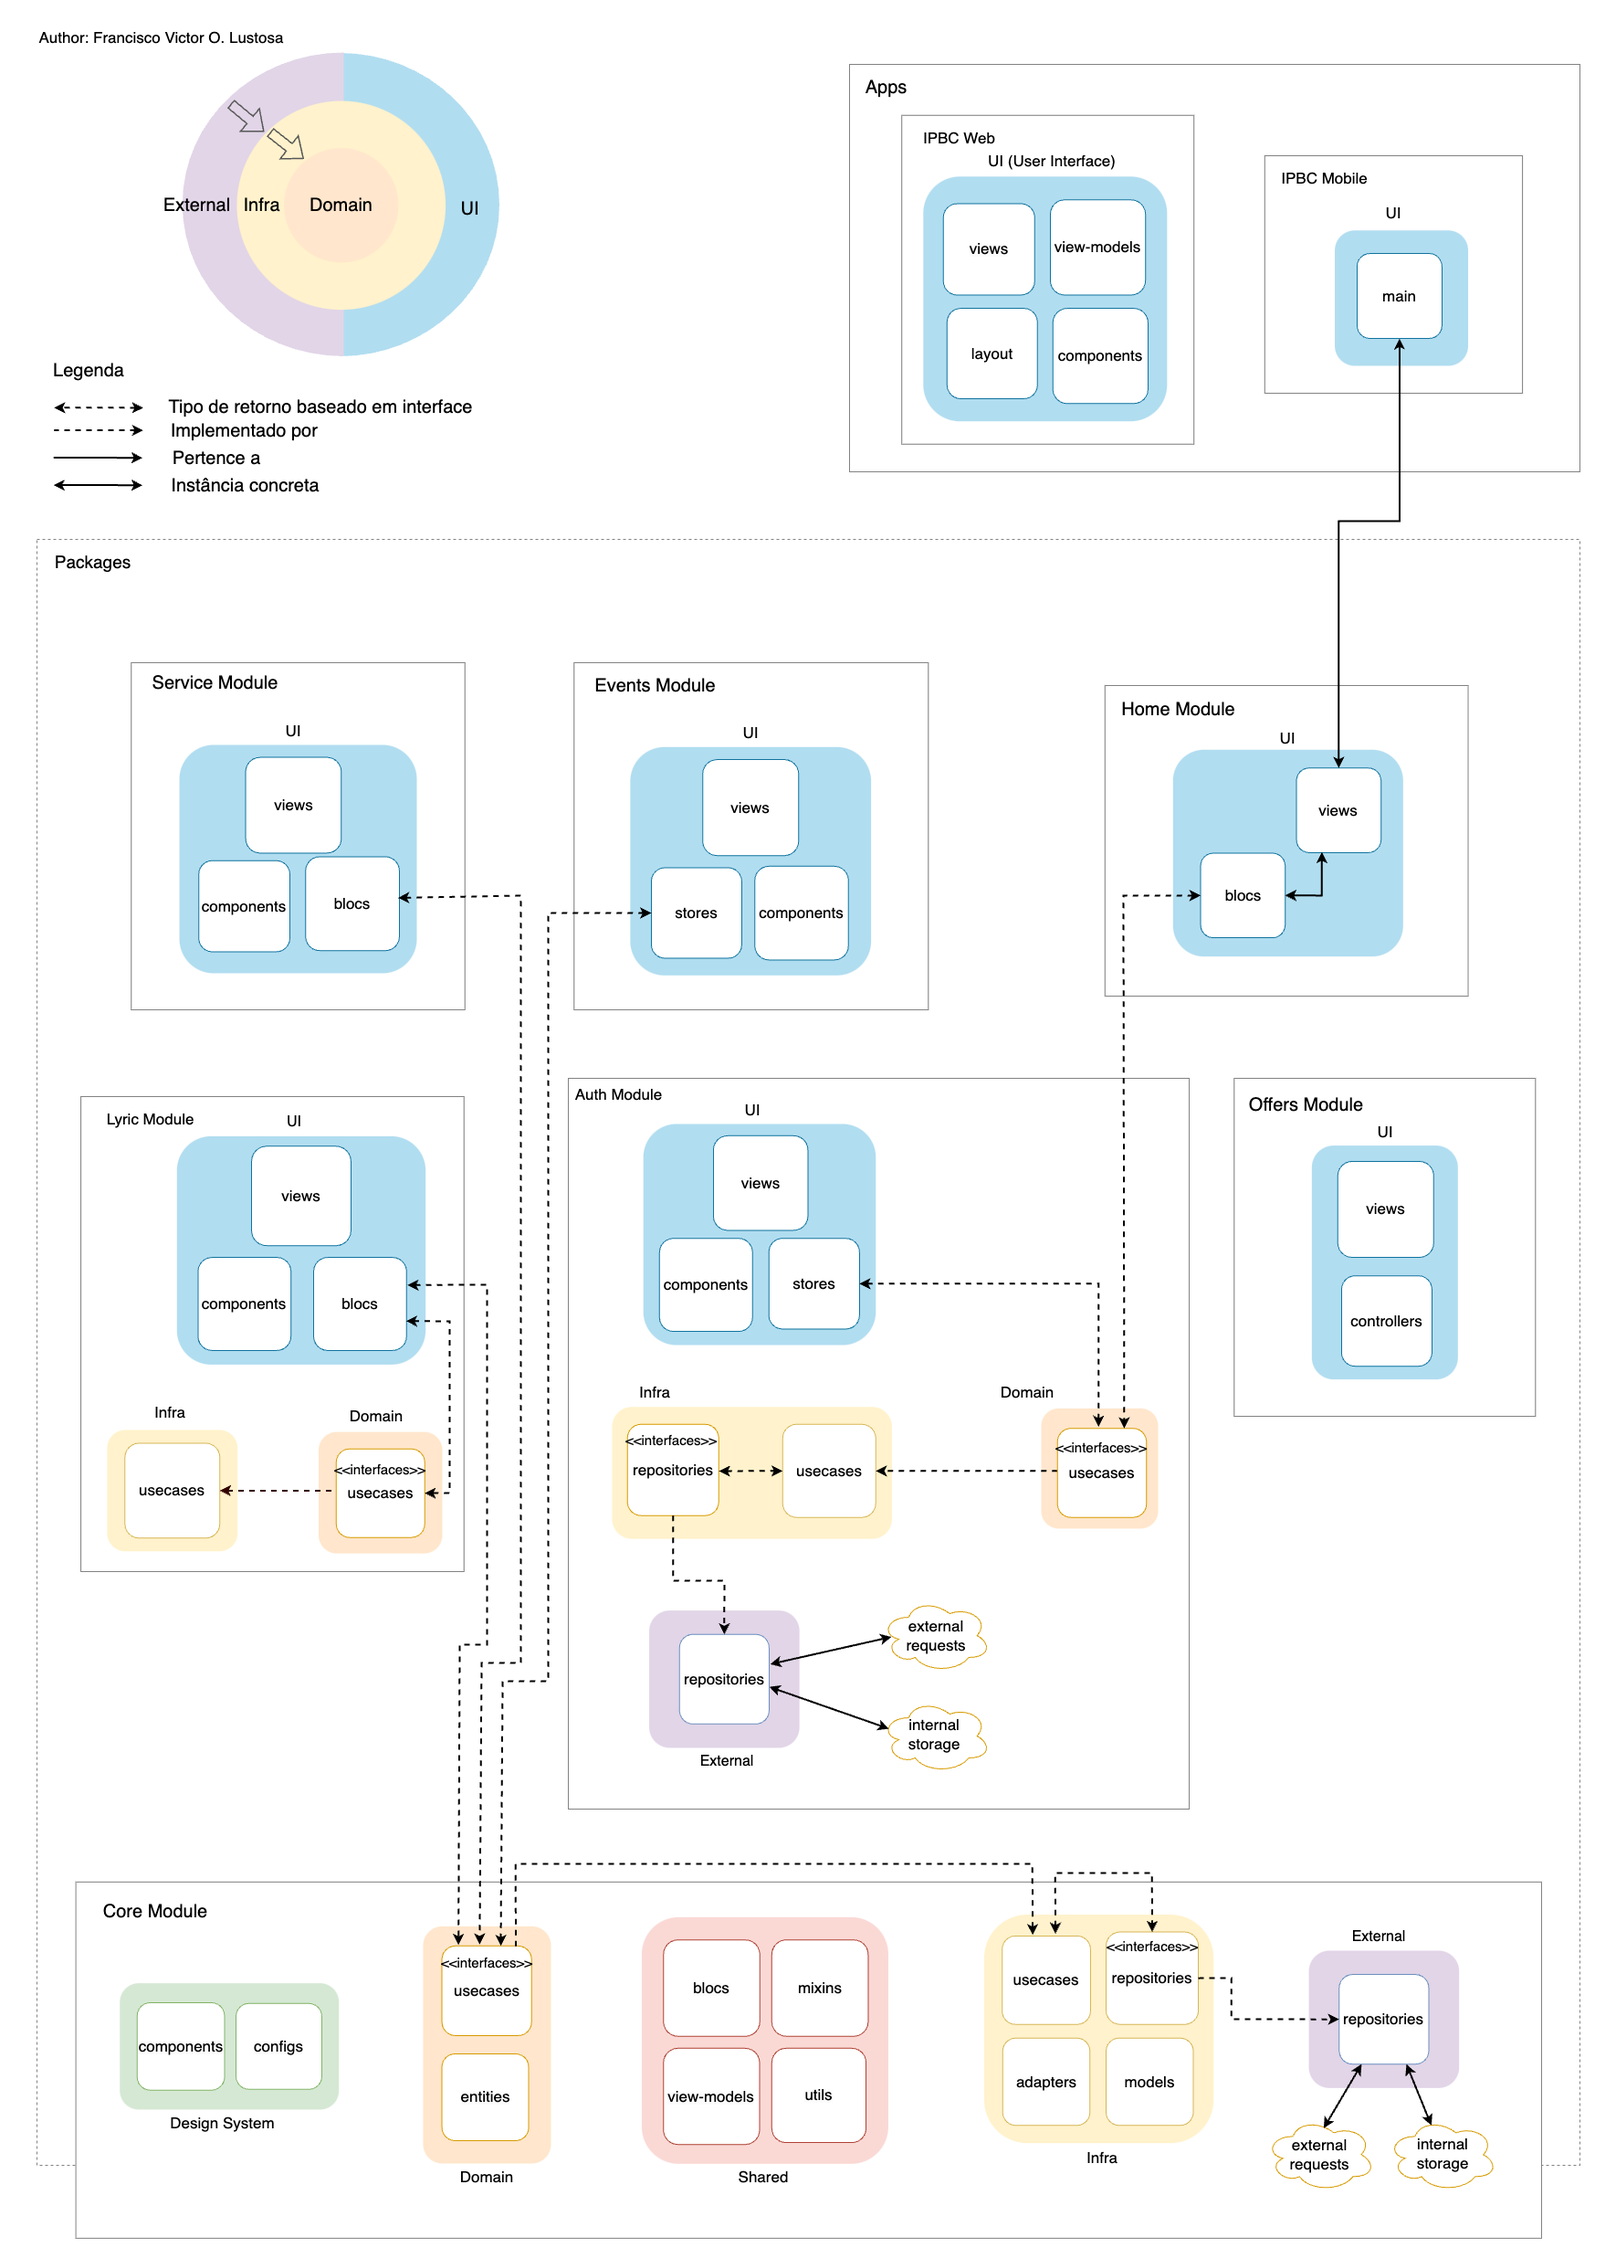
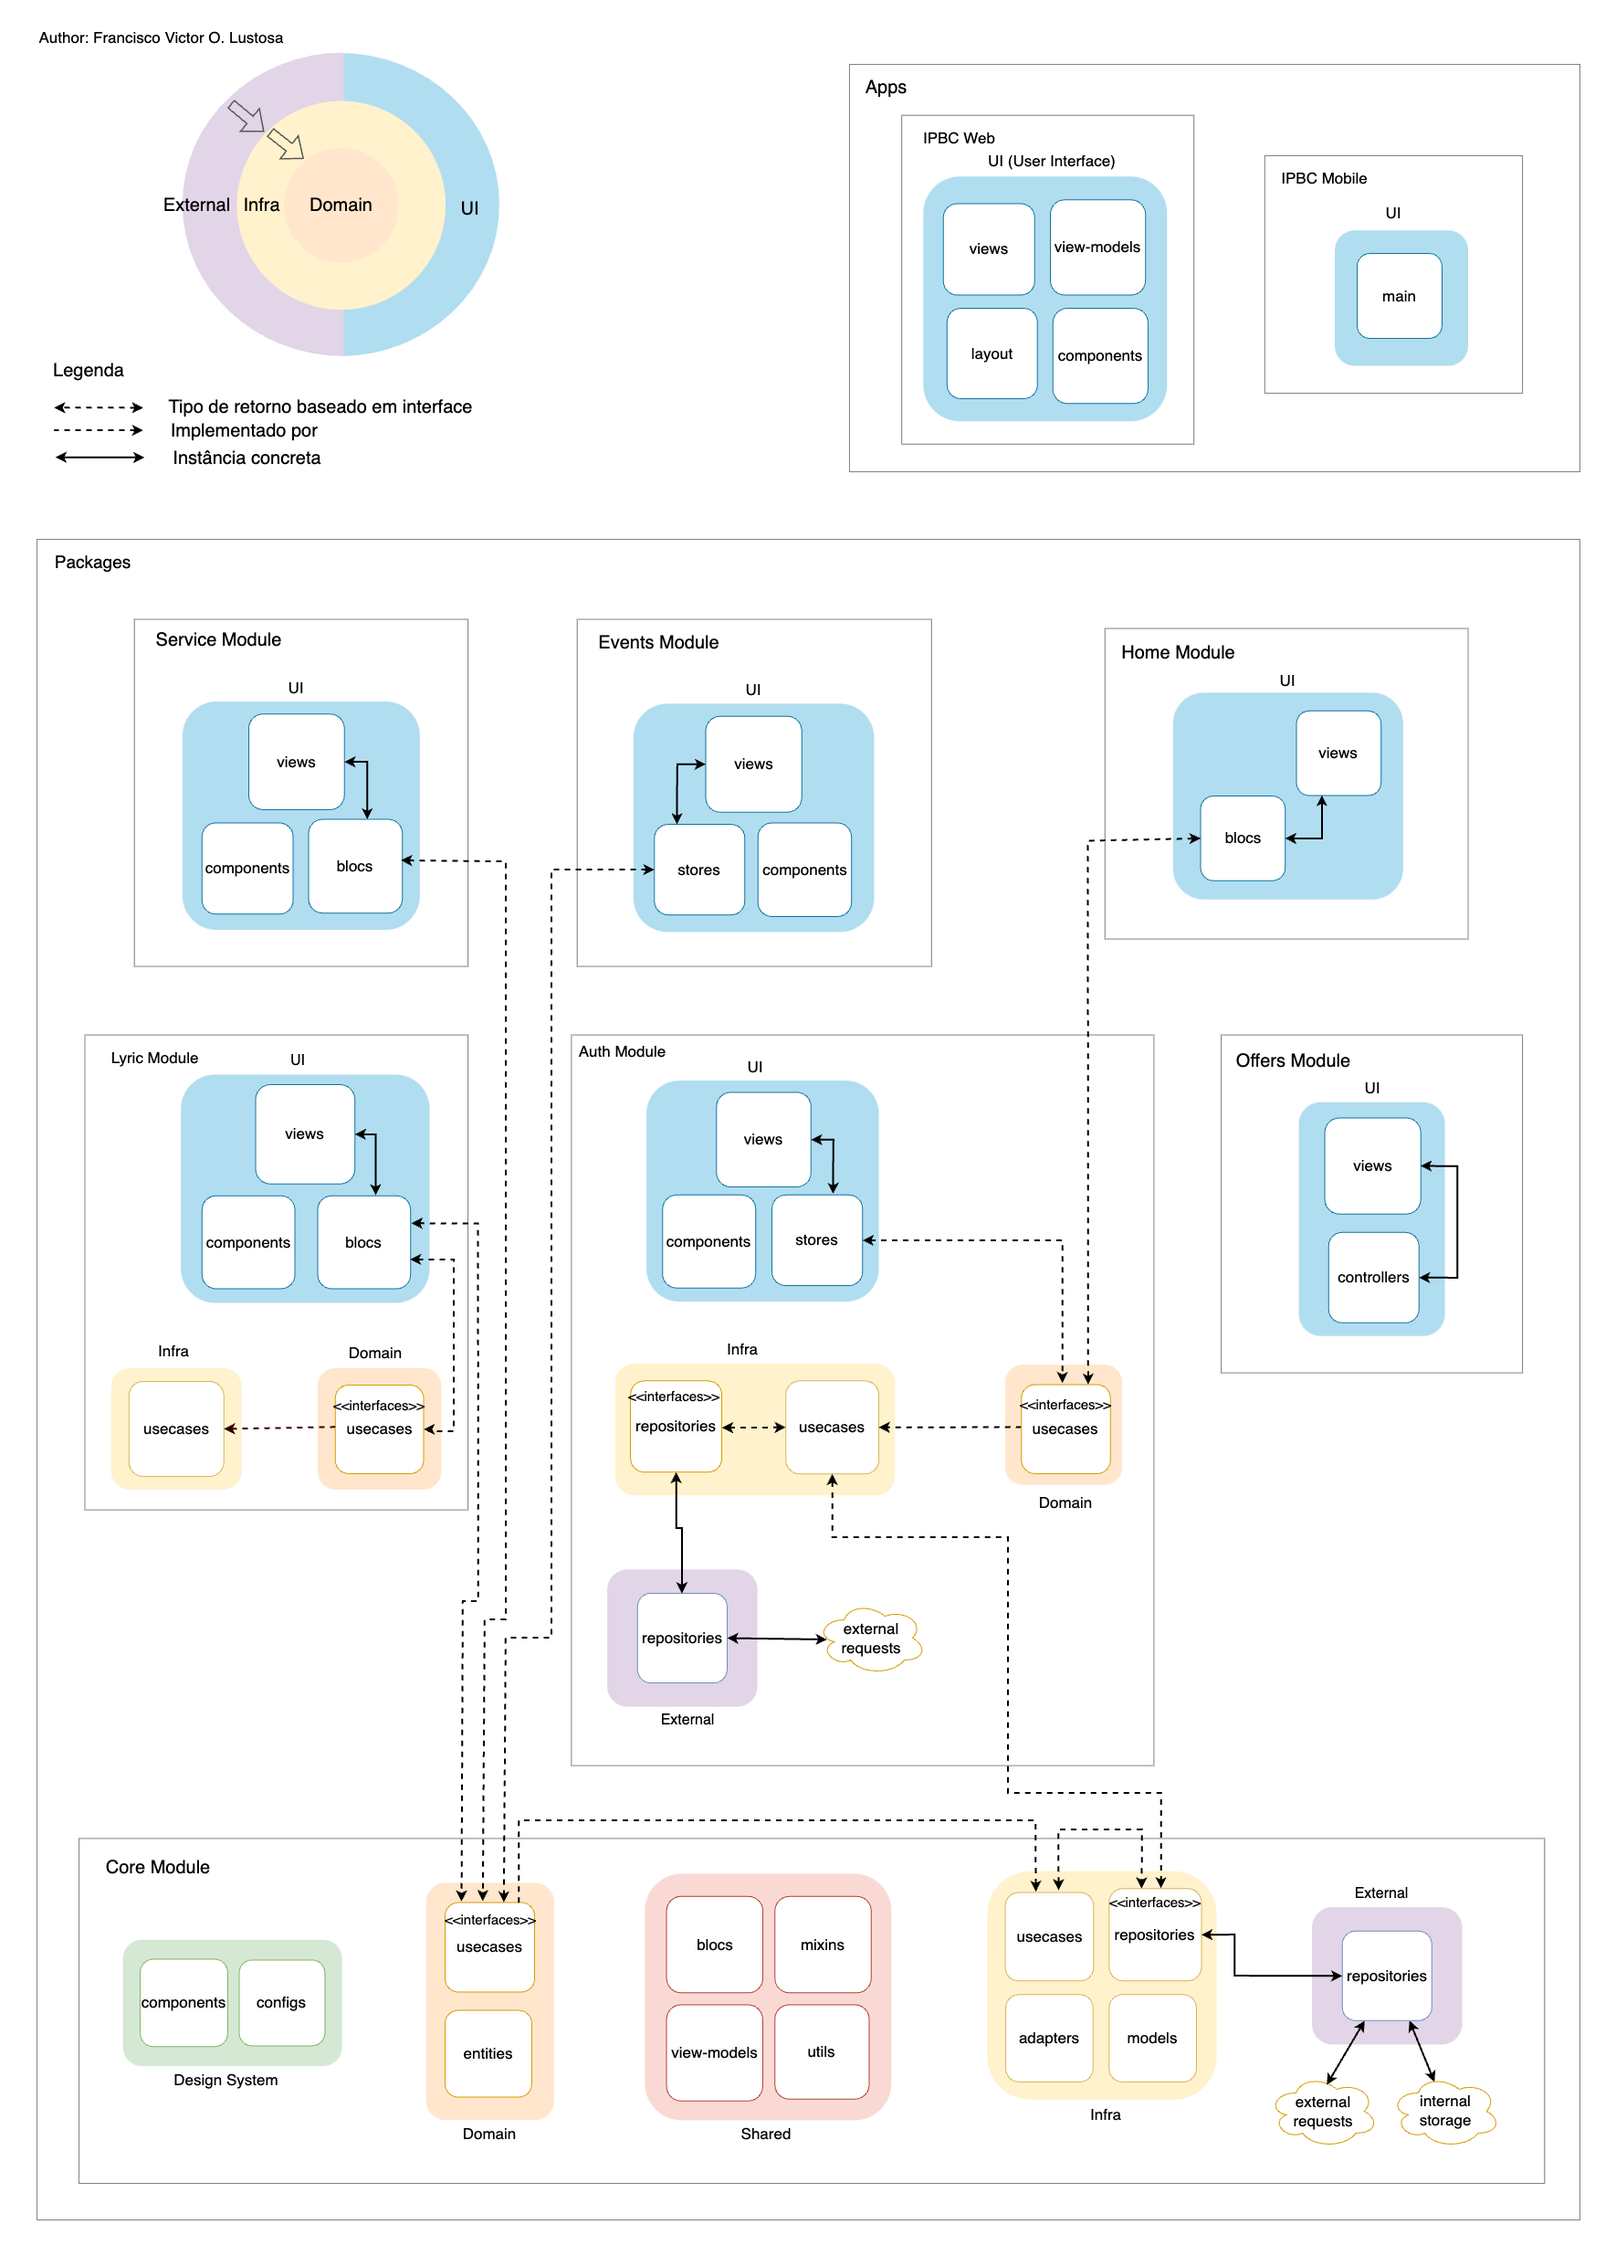
refactor: simplificando a camada de repository de auth | retirando o hive do projeto

diff --git a/packages/core_module/lib/src/core/external/repositories/isar_repository.dart b/packages/core_module/lib/src/core/external/repositories/isar_repository.dart
@@ -1,37 +1,36 @@
 import '../../../../core_module.dart';
 
-class IsarRepository<T> implements IRepository {
+class IsarRepository implements IRepository {
 
-  static late Isar isar;
+  final Isar isar;
 
-  IsarRepository();
+  IsarRepository({required this.isar});
 
   static Future init() async {
     final dir = await getApplicationDocumentsDirectory();
-     isar = await Isar.open(
+    await Isar.open(
       [IsarTokenDTOSchema, IsarUserDTOSchema],
       directory: dir.path,
     );
   }
 
   @override
-  Future<dynamic> get({String? path, String? id}) async {
+  Future<dynamic> get<T>({String? path, String? id}) async {
     final entity = await isar.collection<T>().where().findAll();
     return Future.value(entity);
   }
 
   @override
-  Future<void> update({required data, String? path, String? id}) async {
+  Future<void> update<T>({required data, String? path, String? id}) async {
     await isar.writeTxn(() async {
       isar.collection<T>().put(data);
     });
   }
 
   @override
-  Future<void> delete({String? path, String? id}) async {
-
-  }
+  Future<void> delete<T>({String? path, String? id}) async {}
 
   @override
-  Future<void> add({required data, String? path, String? id}) async => update(data:data, path: path, id: id);
+  Future<void> add<T>({required data, String? path, String? id}) async =>
+      update<T>(data: data, path: path, id: id);
 }

diff --git a/packages/core_module/lib/src/core/external/repositories/supa_repository.dart b/packages/core_module/lib/src/core/external/repositories/supa_repository.dart
@@ -17,7 +17,7 @@ class SupabaseRepository implements IRepository{
   }
 
   @override
-  Future<List<dynamic>> get({String? path, String? id}) async {
+  Future<List<dynamic>> get<T>({String? path, String? id}) async {
     path ??= '';
     params = path.split('/');
     final dynamic data;
@@ -37,21 +37,21 @@ class SupabaseRepository implements IRepository{
   }
 
   @override
-  Future<void> add({required data, String? path, String? id}) async {
+  Future<void> add<T>({required data, String? path, String? id}) async {
     path ??= '';
     params = path.split('/');
     await _supaClient.from(params[0]).insert(data);
   }
 
   @override
-  Future<void> update({required data, String? path, String? id}) async {
+  Future<void> update<T>({required data, String? path, String? id}) async {
     path ??= '';
     params = path.split('/');
     await _supaClient.from(params[0]).update(data).eq(params[1], params[2]);
   }
 
   @override
-  Future<void> delete({String? path, String? id}) async {
+  Future<void> delete<T>({String? path, String? id}) async {
     path ??= '';
     params = path.split('/');
     await _supaClient.from(params[0]).delete().eq(params[1], params[2]);

diff --git a/packages/auth_module/lib/src/infra/use_cases/offline_auth_use_cases.dart b/packages/auth_module/lib/src/infra/use_cases/offline_auth_use_cases.dart
@@ -1,24 +1,26 @@
 
-import 'package:auth_module/src/infra/repositories/auth_repositories.dart';
 import 'package:core_module/core_module.dart';
 
 import '../../domain/use_cases/auth_use_cases.dart';
 
 class OfflineAuthUseCases implements IOfflineAuthUseCases{
 
-  final IOfflineAuthRepository repository;
+  final IRepository repository;
 
   OfflineAuthUseCases({required this.repository});
 
   @override
-  Future<String?> getAccessToken() => repository.getAccessToken();
+  Future<String?> getAccessToken() async {
+   final result = await repository.get<IsarTokenDTO>();
+   return result.accessToken;
+  }
 
   @override
-  Future<UserEntity?> getLocalUser() => repository.getLocalUser();
+  Future<UserEntity?> getLocalUser() async => UserEntity.createFromIsar(await repository.get<IsarUserDTO>());
 
   @override
-  void saveAccessToken(String token) => repository.saveAccessToken(token);
+  void saveAccessToken(String token) => repository.add(data: IsarTokenDTO(accessToken: token));
 
   @override
-  void saveLocalUser(dynamic user) => repository.saveLocalUser(user);
+  void saveLocalUser(dynamic user) => repository.add(data: IsarUserDTO.create(user));
 }

diff --git a/packages/core_module/lib/core_module.dart b/packages/core_module/lib/core_module.dart
@@ -77,7 +77,6 @@ export 'src/design_system/components/scroll_transform/scroll_transform_item.dart
 export 'src/design_system/components/scroll_transform/scroll_transform_view.dart';
 export 'src/design_system/components/icons/hide_icon_widget.dart';
 
-export 'src/core/infra/models/hive_dtos/hive_auth_dto.dart';
 export 'src/core/infra/repositories/repositories.dart';
 export 'src/core/infra/adapters/services_adapter.dart';
 export 'src/core/infra/adapters/liturgy_adapter.dart';
@@ -95,7 +94,6 @@ export 'src/core/infra/models/isar_dtos/isar_user_dto.dart';
 export 'src/core/infra/use_cases/use_cases.dart';
 
 export 'src/core/external/repositories/supa_repository.dart';
-export 'src/core/external/repositories/hive_repository.dart';
 export 'src/core/external/repositories/isar_repository.dart';
 
 export 'src/shared/utils/supa_services_util.dart';

diff --git a/packages/auth_module/lib/src/infra/repositories/auth_repositories.dart b/packages/auth_module/lib/src/infra/repositories/auth_repositories.dart
@@ -2,7 +2,6 @@
 import 'package:core_module/core_module.dart';
 
 abstract class IOnlineAuthRepository implements ISignInEmail, ISignInGoogle, IGetCurrentUser{}
-abstract class IOfflineAuthRepository implements IGetLocalUser, ISaveLocalUser, IGetAccessToken, ISaveAccessToken{}
 
 abstract class ISignInEmail {
   Future<String?> signInWithEmail(String email, String password);
@@ -14,20 +13,4 @@ abstract class ISignInGoogle {
 
 abstract class IGetCurrentUser {
   UserEntity? getCurrentUser();
-}
-
-abstract class IGetLocalUser{
-  Future<UserEntity?> getLocalUser();
-}
-
-abstract class IGetAccessToken{
-  Future<String?> getAccessToken();
-}
-
-abstract class ISaveLocalUser{
-  void saveLocalUser(UserEntity user);
-}
-
-abstract class ISaveAccessToken{
-  void saveAccessToken(String token);
 }

diff --git a/packages/core_module/lib/src/core/infra/repositories/repositories.dart b/packages/core_module/lib/src/core/infra/repositories/repositories.dart
@@ -1,23 +1,23 @@
-abstract class IRepository<R>
+abstract class IRepository
     implements
         IGet,
         IAdd,
         IDelete,
         IUpdate {}
 
-abstract class IGet<R> {
-  Future<R?> get({String? path, String? id});
+abstract class IGet {
+  Future<dynamic> get<T>({String? path, String? id});
 }
 
 abstract class IAdd {
-  Future<void> add({required data, String? path, String? id});
+  Future<void> add<T>({required data, String? path, String? id});
 }
 
 abstract class IUpdate {
-  Future<void> update({required data, String? path, String? id});
+  Future<void> update<T>({required data, String? path, String? id});
 }
 
 abstract class IDelete {
-  Future<void> delete({String? path, String? id});
+  Future<void> delete<T>({String? path, String? id});
 }
 

diff --git a/packages/auth_module/lib/src/app_module.dart b/packages/auth_module/lib/src/app_module.dart
@@ -1,4 +1,3 @@
-import 'package:auth_module/src/external/repositories/isar_auth_repository.dart';
 import 'package:auth_module/src/ui/views/registration_completion_view.dart';
 import 'package:home_module/home_module.dart';
 
@@ -33,7 +32,7 @@ class AuthModule extends Module {
   void binds(i) {
     i.addSingleton<IOfflineAuthUseCases>(
       () => OfflineAuthUseCases(
-        repository: IsarAuthRepository(isar: i.get<Isar>()),
+        repository: i.get<IsarRepository>(),
       ),
     );
     i.addSingleton<IOnlineAuthUseCases>(

diff --git a/packages/core_module/lib/src/app_module.dart b/packages/core_module/lib/src/app_module.dart
@@ -19,7 +19,7 @@ class CoreModule extends Module {
     );
     i.addSingleton<Isar>(() => Isar.getInstance());
     i.addSingleton<IsarRepository>(
-          () => IsarRepository(),
+          () => IsarRepository(isar: i.get<Isar>()),
     );
     i.addSingleton(
           () => UseCases<SupabaseRepository>(

diff --git a/packages/core_module/lib/src/core/infra/use_cases/use_cases.dart b/packages/core_module/lib/src/core/infra/use_cases/use_cases.dart
@@ -1,6 +1,6 @@
 import 'package:core_module/core_module.dart';
 
-class UseCases<R> implements IUseCases {
+class UseCases<T> implements IUseCases {
   final IRepository repository;
 
   UseCases({required this.repository});
